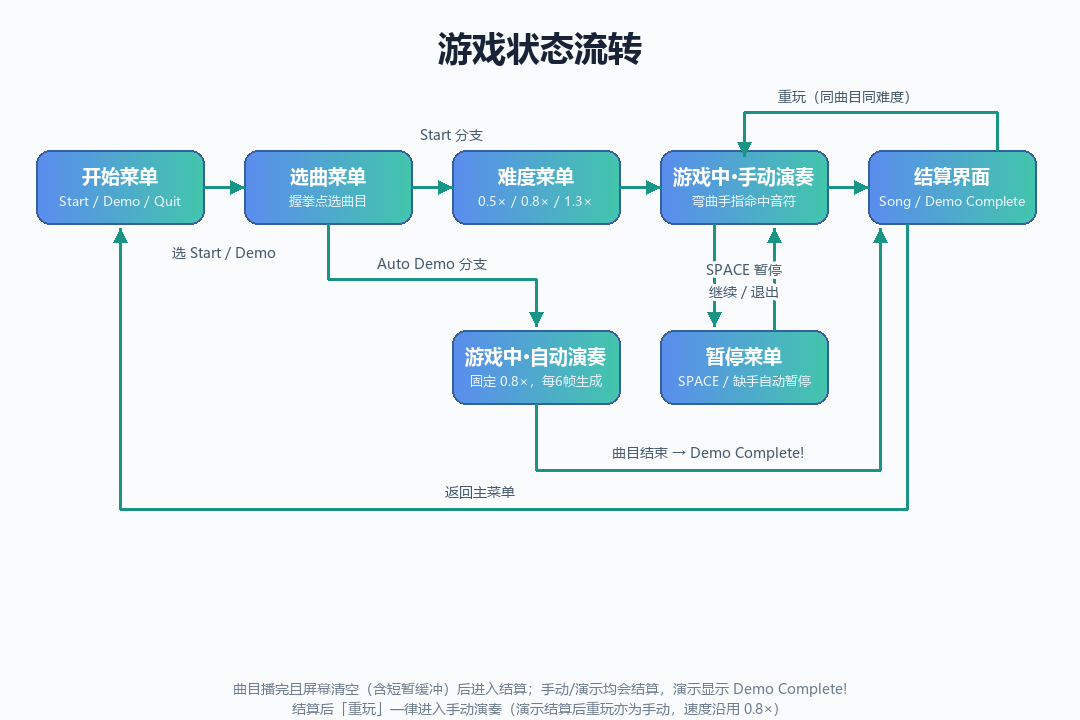
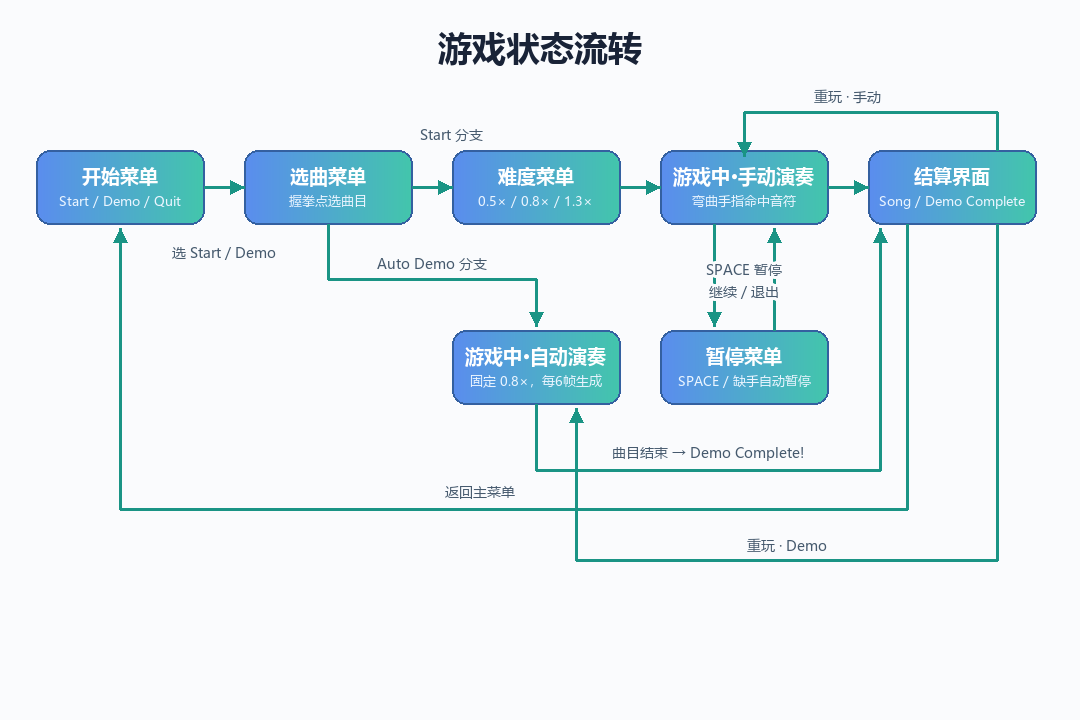
fix: replay from demo results returns to demo mode (matches state flow diagram/README); add transparent flowchart and update notes

diff --git a/game.py b/game.py
@@ -3539,7 +3539,7 @@ def main():
                         if not song_id:
                             song_id = 'twinkle'
                         game.load_song(song_id, game.speed_multiplier)
-                        game.start(is_demo=False)
+                        game.start(is_demo=game.is_demo)
                         cursor.set_visible(False)
                     elif result["action"] == "menu":
                         cursor.consume_click()

diff --git a/README.md b/README.md
@@ -451,9 +451,9 @@ for note in self.notes:
   └─ Auto Demo  ──► 选择曲目 ───────────────► 游戏中（自动演奏）──┤
                                                                   ▼
                                                               结算界面
-                                                            ┌─────┴─────┐
-                                                            ▼           ▼
-                                                  重玩（同曲目同难度）  返回主菜单
+                       ┌──────────────────┬──────────────────┐
+                       ▼                  ▼                  ▼
+              重玩·手动 → 手动演奏   重玩·Demo → 自动演奏   返回主菜单 → 开始菜单
 ```
 
 - **曲目**：内置 **7 首**——`Twinkle Twinkle Little Star`、`Happy Birthday`、`Jingle Bells`、`Farewell`（送别）、`Ode to Joy`、`Moonlight Sonata`、`Night Piano No.5`。每首在 `PianoSheet.get_song()` 中以 `(简谱数字, 时值)` 序列定义，另配 `scale_notes` 表把简谱翻译成真实音名（如 `'1''→C5`、`'b3'→Eb4`）。
@@ -462,7 +462,7 @@ for note in self.notes:
 - **轨道分配**：每个音符随机落到 1–10 号轨道（`random.randint(1, 10)`），与它弹什么音无关；轨道底部标签固定为 `C4…E5`，而音符上显示的是它自己的真实音名（`actual_note`，如 `C#5`）。全部音符下落完且屏幕清空后，等待一小段缓冲才判定曲目结束并进入结算。
 - **音频**：`get_note_sound()` 按音名在 `Piano/` 采样目录中查找对应 `tone(N).wav`，`AudioManager` 用 64 个混音通道保证长音不被截断；暂停或重开时 `stop_all()` 清空所有通道。
 - **计分**：`score`（含连击加成）、`combo` / `max_combo`、`perfect/great/good/miss` 计数、`accuracy` 准确率，结算界面展示评级（详见下方「🏆 计分与评级」章节）。
-- **控制**：通过光标触发各个菜单中的按键实现控制，演奏曲目时检测不到手自动暂停；必要时可通过键盘控制（见前面的键盘部分说明）。结算界面可"重玩"（沿用当前曲目与难度）或"返回主菜单"。
+- **控制**：通过光标触发各个菜单中的按键实现控制，演奏曲目时检测不到手自动暂停；必要时可通过键盘控制（见前面的键盘部分说明）。结算界面可「重玩」或「返回主菜单」：**手动演奏**结算后的「重玩」沿用当前曲目与难度回到手动演奏；**自动演示**结算后的「重玩」回到自动演奏（跳过难度选择）；两者均可「返回主菜单」。
 
 ---
 
@@ -539,8 +539,8 @@ perfect_rate = perfect_count / total_notes
 | 游戏中 | `Assets/In_Game_Screen.png` | 下落音符（带音名）+ 轨道高亮 + 侧边栏统计 |
 | 暂停菜单 | `Assets/Pause_Menu.png` | 暂停时叠加的菜单 |
 | 演示模式 | `Assets/Demo.png` | 无手势自动演奏展示（侧边栏显示 DEMO MODE） |
-| 结算界面 | `Assets/Song_Completed_Menu.png` | 分数、四项计数、最大连击、准确率与评级 |
-| 演示结算 | `Assets/Demo_Completed_Menu.png` | 演示结束的独立界面（Play Again / Back to Menu） |
+| 结算界面 | `Assets/Song_Completed_Menu.png` | 分数、四项计数、最大连击、准确率与评级；「重玩」回到手动演奏（同曲目同难度） |
+| 演示结算 | `Assets/Demo_Completed_Menu.png` | 演示结束的独立界面；「重玩」回到自动演奏 / 「Back to Menu」返回主菜单 |
 
 ![Select Song](Assets/Select_Song_Menu.png)
 ![Select Difficulty](Assets/Select_Difficulty_Menu.png)
@@ -573,6 +573,7 @@ piano_game/
 │   └── diagrams/           # 技术文档流程图
 │       ├── gesture_pipeline.png        # 手势识别数据处理流水线
 │       ├── game_state_flow.png         # 游戏状态流转图
+│       ├── game_state_flow_transparent.png  # 同图透明背景版（抠图）
 │       ├── rating_decision_tree.png    # 判定评级分支决策树
 │       └── project_structure.png       # 项目目录结构
 ├── requirements.txt
